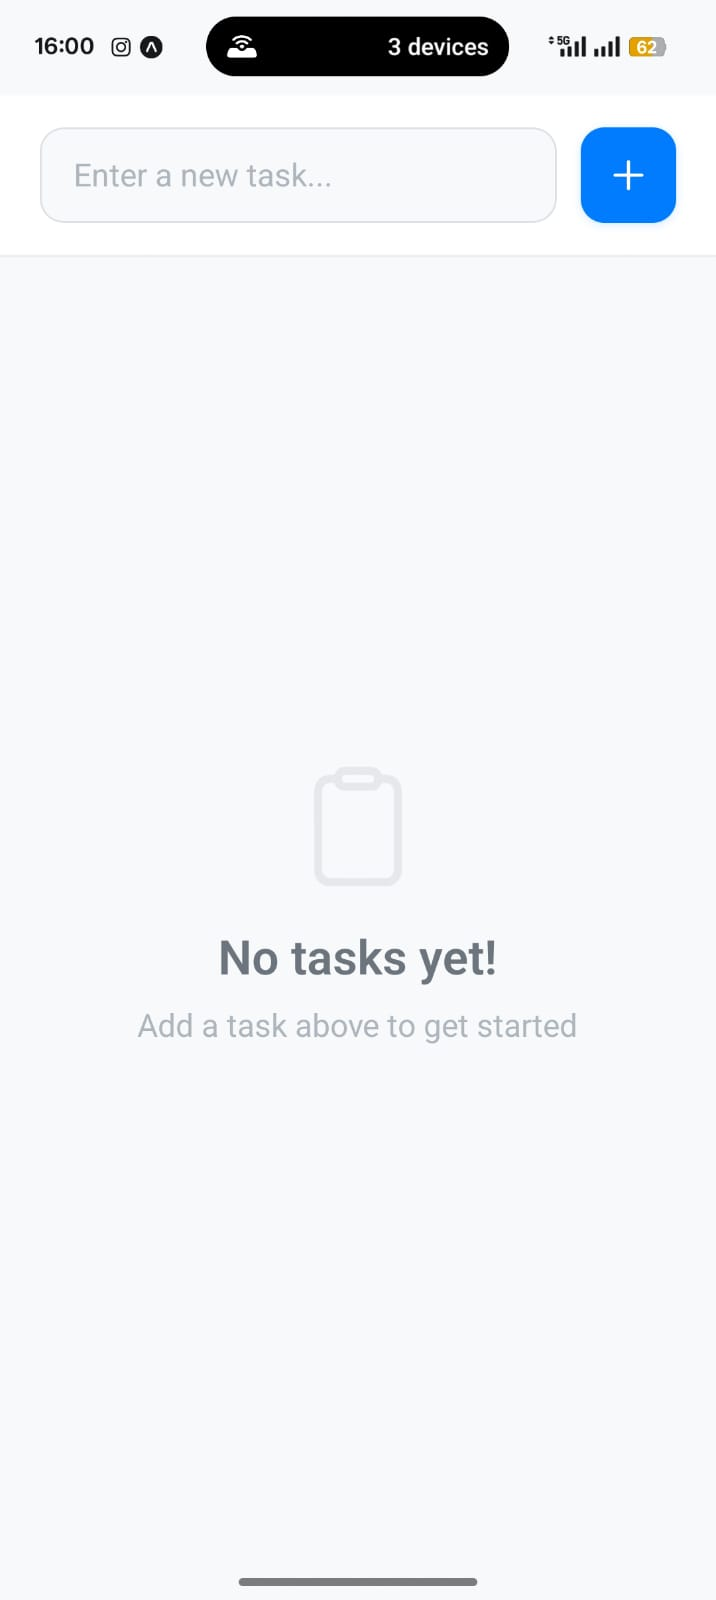
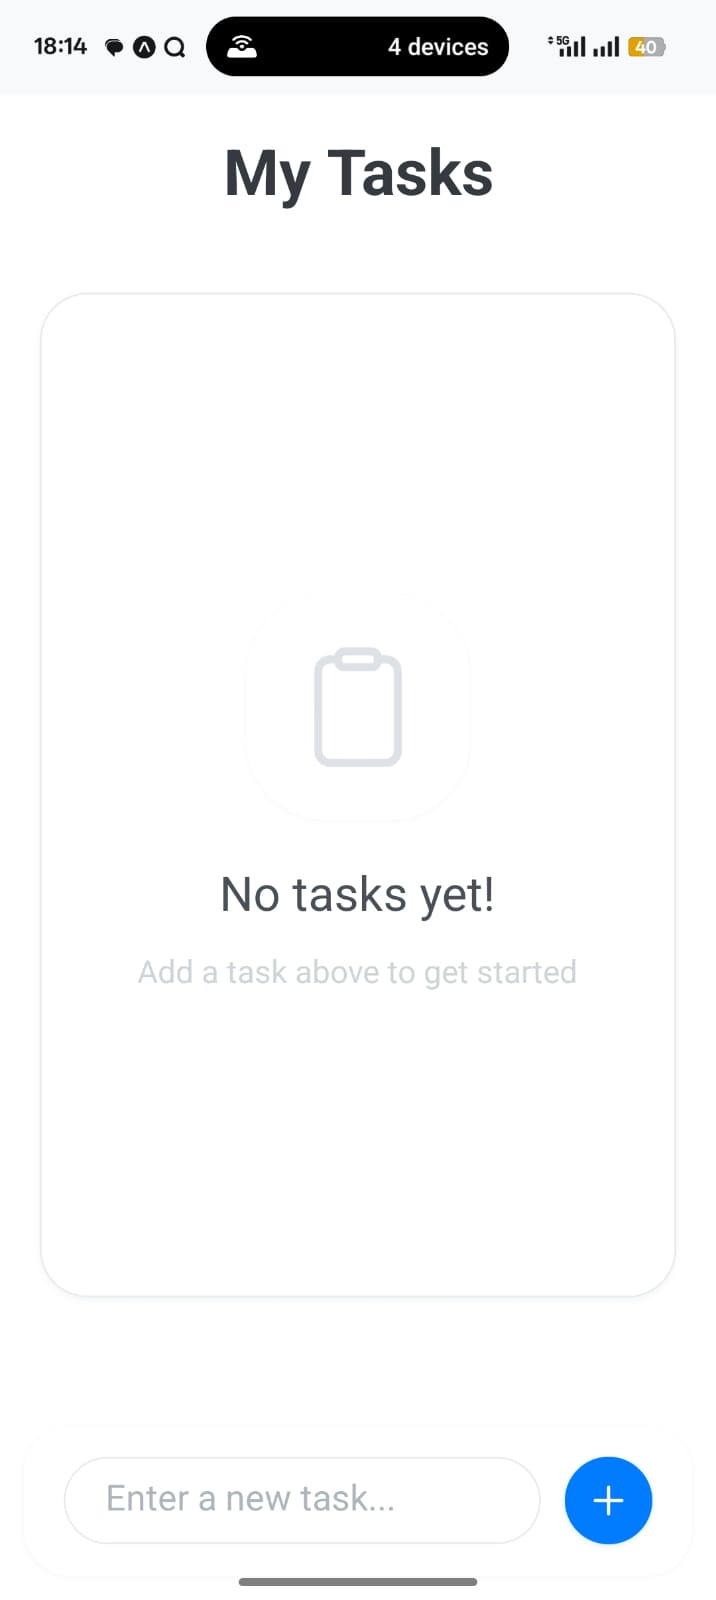
UI update

diff --git a/src/screens/HomeScreen.js b/src/screens/HomeScreen.js
@@ -1,5 +1,5 @@
 import React, { useState, useEffect, useRef } from "react";
-import { View, FlatList, StyleSheet, Platform, StatusBar, Modal, TouchableOpacity, Text } from "react-native";
+import { View, FlatList, StyleSheet, Platform, StatusBar, Modal, TouchableOpacity, Text, KeyboardAvoidingView } from "react-native";
 import { SafeAreaView } from "react-native-safe-area-context";
 import TaskInput from "../components/TaskInput";
 import TaskItem from "../components/TaskItem";
@@ -121,24 +121,32 @@ const HomeScreen = () => {
       ]}
       edges={["top", "left", "right"]}
     >
-      <StatusBar backgroundColor={COLORS.light} barStyle="dark-content" />
-      <View style={styles.container}>
-        <TaskInput onAddTask={handleAddTask} />
-        <FlatList
-          data={tasks}
-          keyExtractor={(item) => item.id}
-          renderItem={({ item }) => (
-            <TaskItem
-              task={item}
-              onToggleComplete={handleToggleComplete}
-              onDelete={handleDelete}
-              onEdit={handleEdit}
-            />
-          )}
-          ListEmptyComponent={<EmptyState />}
-          contentContainerStyle={styles.listContent}
-          style={styles.list}
-        />
+      <StatusBar backgroundColor={COLORS.gray[100]} barStyle="dark-content" />
+      <KeyboardAvoidingView
+        style={{ flex: 1 }}
+        behavior={Platform.OS === "ios" ? "padding" : undefined}
+        keyboardVerticalOffset={Platform.OS === "ios" ? 0 : 24}
+      >
+        <View style={styles.container}>
+          <Text style={styles.title}>My Tasks</Text>
+          <FlatList
+            data={tasks}
+            keyExtractor={(item) => item.id}
+            renderItem={({ item }) => (
+              <TaskItem
+                task={item}
+                onToggleComplete={handleToggleComplete}
+                onDelete={handleDelete}
+                onEdit={handleEdit}
+              />
+            )}
+            ListEmptyComponent={<EmptyState />}
+            contentContainerStyle={styles.listContent}
+            style={styles.list}
+            keyboardShouldPersistTaps="handled"
+          />
+          <TaskInput onAddTask={handleAddTask} />
+        </View>
         <Modal
           visible={editModalVisible}
           animationType="slide"
@@ -160,7 +168,7 @@ const HomeScreen = () => {
             </View>
           </View>
         </Modal>
-      </View>
+      </KeyboardAvoidingView>
     </SafeAreaView>
   );
 };
@@ -168,20 +176,38 @@ const HomeScreen = () => {
 const styles = StyleSheet.create({
   safeArea: {
     flex: 1,
-    backgroundColor: COLORS.light,
+    backgroundColor: COLORS.gray[100],
   },
   container: {
     flex: 1,
-    backgroundColor: COLORS.light,
+    backgroundColor: COLORS.white,
     paddingBottom: 0,
+    borderTopLeftRadius: 0,
+    borderTopRightRadius: 0,
+    marginTop: 0,
+    shadowColor: "transparent",
+    shadowOffset: { width: 0, height: 0 },
+    shadowOpacity: 0,
+    shadowRadius: 0,
+    elevation: 0,
   },
   list: {
     flex: 1,
-    backgroundColor: COLORS.light,
+    backgroundColor: "transparent",
   },
   listContent: {
     flexGrow: 1,
-    paddingBottom: 24,
+    paddingBottom: 32,
+    paddingTop: 8,
+  },
+  title: {
+    fontSize: 32,
+    fontWeight: '700',
+    color: COLORS.gray[800],
+    textAlign: 'center',
+    marginTop: 16,
+    marginBottom: 12,
+    fontFamily: Platform.OS === 'ios' ? 'San Francisco' : 'Roboto'
   },
 });
 

diff --git a/src/components/TaskItem.js b/src/components/TaskItem.js
@@ -1,5 +1,5 @@
 import React from "react";
-import { View, Text, TouchableOpacity, StyleSheet, Alert } from "react-native";
+import { View, Text, TouchableOpacity, StyleSheet, Alert, Platform } from "react-native";
 import { Ionicons } from "@expo/vector-icons";
 import { COLORS, SPACING, FONT_SIZES } from "../utils/constants";
 
@@ -37,6 +37,7 @@ const TaskItem = ({ task, onToggleComplete, onDelete, onEdit, showTime = true })
     <View
       style={[styles.container, task.completed && styles.completedContainer]}
     >
+      <View style={styles.verticalBar} />
       <TouchableOpacity
         onPress={() => onToggleComplete(task.id)}
         style={styles.checkbox}
@@ -82,52 +83,80 @@ const styles = StyleSheet.create({
     flexDirection: "row",
     alignItems: "center",
     backgroundColor: COLORS.white,
-    padding: SPACING.lg,
+    paddingVertical: SPACING.lg,
+    paddingHorizontal: SPACING.xl,
     marginVertical: SPACING.xs,
     marginHorizontal: SPACING.xl,
-    borderRadius: 12,
-    shadowColor: COLORS.black,
-    shadowOffset: {
-      width: 0,
-      height: 1,
-    },
-    shadowOpacity: 0.1,
-    shadowRadius: 2,
+    borderRadius: 16,
+    borderWidth: 1,
+    borderColor: COLORS.gray[200],
+    shadowColor: COLORS.gray[400],
+    shadowOffset: { width: 0, height: 2 },
+    shadowOpacity: 0.06,
+    shadowRadius: 6,
     elevation: 2,
   },
   completedContainer: {
-    backgroundColor: COLORS.gray[50],
-    opacity: 0.8,
+    backgroundColor: COLORS.gray[100],
+    opacity: 0.7,
+  },
+  verticalBar: {
+    width: 8,
+    height: "100%",
+    borderRadius: 8,
+    backgroundColor: "#B5EAD7", // pastel green accent
+    marginRight: SPACING.lg,
   },
   checkbox: {
     marginRight: SPACING.md,
-    padding: SPACING.xs,
+    padding: 0,
+    width: 32,
+    height: 32,
+    borderRadius: 16,
+    backgroundColor: COLORS.gray[100],
+    justifyContent: "center",
+    alignItems: "center",
   },
   content: {
     flex: 1,
     paddingRight: SPACING.md,
   },
   taskText: {
-    fontSize: FONT_SIZES.md,
+    fontSize: FONT_SIZES.lg,
     color: COLORS.dark,
-    lineHeight: 22,
-    marginBottom: SPACING.xs,
+    lineHeight: 24,
+    fontWeight: "500",
+    fontFamily: Platform.OS === "ios" ? "San Francisco" : "Roboto",
   },
   completedText: {
     textDecorationLine: "line-through",
-    color: COLORS.gray[600],
+    color: COLORS.gray[400],
+    fontWeight: "400",
   },
   timeText: {
     fontSize: FONT_SIZES.xs,
-    color: COLORS.gray[500],
+    color: COLORS.gray[400],
+    marginTop: 2,
+    fontStyle: "italic",
   },
   deleteButton: {
-    padding: SPACING.sm,
-    borderRadius: 8,
+    padding: 0,
+    width: 32,
+    height: 32,
+    borderRadius: 16,
+    backgroundColor: COLORS.gray[100],
+    justifyContent: "center",
+    alignItems: "center",
+    marginLeft: 4,
   },
   editButton: {
-    padding: SPACING.sm,
-    borderRadius: 8,
+    padding: 0,
+    width: 32,
+    height: 32,
+    borderRadius: 16,
+    backgroundColor: COLORS.gray[100],
+    justifyContent: "center",
+    alignItems: "center",
     marginLeft: 4,
   },
 });

diff --git a/src/components/TaskInput.js b/src/components/TaskInput.js
@@ -5,6 +5,7 @@ import {
   TouchableOpacity,
   StyleSheet,
   Alert,
+  Platform,
 } from "react-native";
 import { Ionicons } from "@expo/vector-icons";
 import { COLORS, SPACING, FONT_SIZES } from "../utils/constants";
@@ -78,49 +79,56 @@ const styles = StyleSheet.create({
     paddingVertical: SPACING.lg,
     backgroundColor: COLORS.white,
     alignItems: "center",
-    gap: SPACING.md,
-    borderBottomWidth: 1,
-    borderBottomColor: COLORS.gray[200],
+    borderBottomWidth: 0,
+    borderRadius: 24,
+    margin: SPACING.md,
+    shadowColor: COLORS.gray[400],
+    shadowOffset: { width: 0, height: 2 },
+    shadowOpacity: 0.06,
+    shadowRadius: 6,
+    elevation: 2,
   },
   textInput: {
     flex: 1,
-    height: 48,
+    height: 44,
     borderWidth: 1,
-    borderColor: COLORS.gray[300],
-    borderRadius: 12,
-    paddingHorizontal: SPACING.lg,
-    fontSize: FONT_SIZES.md,
-    backgroundColor: COLORS.gray[100],
+    borderColor: COLORS.gray[200],
+    borderRadius: 22,
+    paddingHorizontal: SPACING.xl,
+    fontSize: FONT_SIZES.lg,
+    backgroundColor: COLORS.white,
     color: COLORS.dark,
+    fontFamily: Platform.OS === "ios" ? "San Francisco" : "Roboto",
+    marginRight: SPACING.md,
   },
   textInputFocused: {
     borderColor: COLORS.primary,
     backgroundColor: COLORS.white,
     shadowColor: COLORS.primary,
     shadowOffset: { width: 0, height: 0 },
-    shadowOpacity: 0.2,
-    shadowRadius: 4,
+    shadowOpacity: 0.10,
+    shadowRadius: 8,
     elevation: 2,
   },
   textInputDisabled: {
-    backgroundColor: COLORS.gray[200],
-    color: COLORS.gray[500],
+    backgroundColor: COLORS.gray[100],
+    color: COLORS.gray[400],
   },
   addButton: {
     backgroundColor: COLORS.primary,
-    width: 48,
-    height: 48,
-    borderRadius: 12,
+    width: 44,
+    height: 44,
+    borderRadius: 22,
     justifyContent: "center",
     alignItems: "center",
     shadowColor: COLORS.primary,
     shadowOffset: { width: 0, height: 2 },
-    shadowOpacity: 0.2,
-    shadowRadius: 4,
-    elevation: 3,
+    shadowOpacity: 0.10,
+    shadowRadius: 6,
+    elevation: 2,
   },
   addButtonDisabled: {
-    backgroundColor: COLORS.gray[300],
+    backgroundColor: COLORS.gray[200],
     shadowOpacity: 0,
     elevation: 0,
   },

diff --git a/src/components/EmptyState.js b/src/components/EmptyState.js
@@ -1,5 +1,5 @@
 import React from "react";
-import { View, Text, StyleSheet } from "react-native";
+import { View, Text, StyleSheet, Platform } from "react-native";
 import { Ionicons } from "@expo/vector-icons";
 import { COLORS, FONT_SIZES, SPACING } from "../utils/constants";
 
@@ -23,27 +23,48 @@ const EmptyState = ({
 
 const styles = StyleSheet.create({
   container: {
-    flex:  1,
+    flex: 1,
     justifyContent: "center",
     alignItems: "center",
     paddingHorizontal: SPACING.xxxl,
+    backgroundColor: COLORS.white,
+    borderRadius: 24,
+    margin: SPACING.xl,
+    borderWidth: 1,
+    borderColor: COLORS.gray[200],
+    shadowColor: COLORS.gray[400],
+    shadowOffset: { width: 0, height: 2 },
+    shadowOpacity: 0.06,
+    shadowRadius: 6,
+    elevation: 2,
   },
   iconContainer: {
-    marginBottom: SPACING.lg,
-    opacity: 0.7,
+    marginBottom: SPACING.xl,
+    opacity: 1,
+    backgroundColor: COLORS.white,
+    borderRadius: 40,
+    padding: 24,
+    shadowColor: COLORS.gray[400],
+    shadowOffset: { width: 0, height: 2 },
+    shadowOpacity: 0.06,
+    shadowRadius: 6,
+    elevation: 2,
   },
   title: {
     fontSize: FONT_SIZES.xxl,
     fontWeight: "600",
-    color: COLORS.gray[600],
-    marginBottom: SPACING.sm,
+    color: COLORS.gray[700],
+    marginBottom: SPACING.md,
     textAlign: "center",
+    fontFamily: Platform.OS === "ios" ? "San Francisco" : "Roboto",
   },
   subtitle: {
     fontSize: FONT_SIZES.md,
-    color: COLORS.gray[500],
+    color: COLORS.gray[400],
     textAlign: "center",
-    lineHeight: 22,
+    lineHeight: 24,
+    fontWeight: "400",
+    fontFamily: Platform.OS === "ios" ? "San Francisco" : "Roboto",
   },
 });
 

diff --git a/README.md b/README.md
@@ -111,6 +111,17 @@ npx expo start
 - Cross-platform compatibility
 
 
+## 🚧 Development Challenges & Expo Go Issues
+
+During the development of this application, I encountered several challenges, particularly related to the Expo Go environment:
+
+- **Push/Local Notification Issues:** Expo Go has limitations with handling background tasks and notifications, especially on iOS. Sometimes notifications would not trigger as expected, or would be delayed, due to restrictions in the Expo Go client and OS background execution policies.
+- **Native Module Limitations:** Some advanced features (like custom notification sounds or scheduling precise background jobs) are not fully supported in Expo Go, requiring either ejecting to Expo Bare workflow or using workarounds.
+- **Testing on Real Devices:** Certain features (like notifications) behave differently on simulators/emulators versus real devices. Debugging these inconsistencies required frequent device testing and reading Expo documentation.
+- **Hot Reload/Refresh Bugs:** Occasionally, hot reloading in Expo Go would cause state or notification listeners to behave unexpectedly, requiring a full reload or app restart.
+
+Despite these challenges, I was able to implement reliable local notifications and a smooth user experience by carefully reading Expo documentation, testing on multiple devices, and using best practices for React Native development.
+
 ## 👨💻 Developer Information
 - Developer: Swaraj Dhage
 
